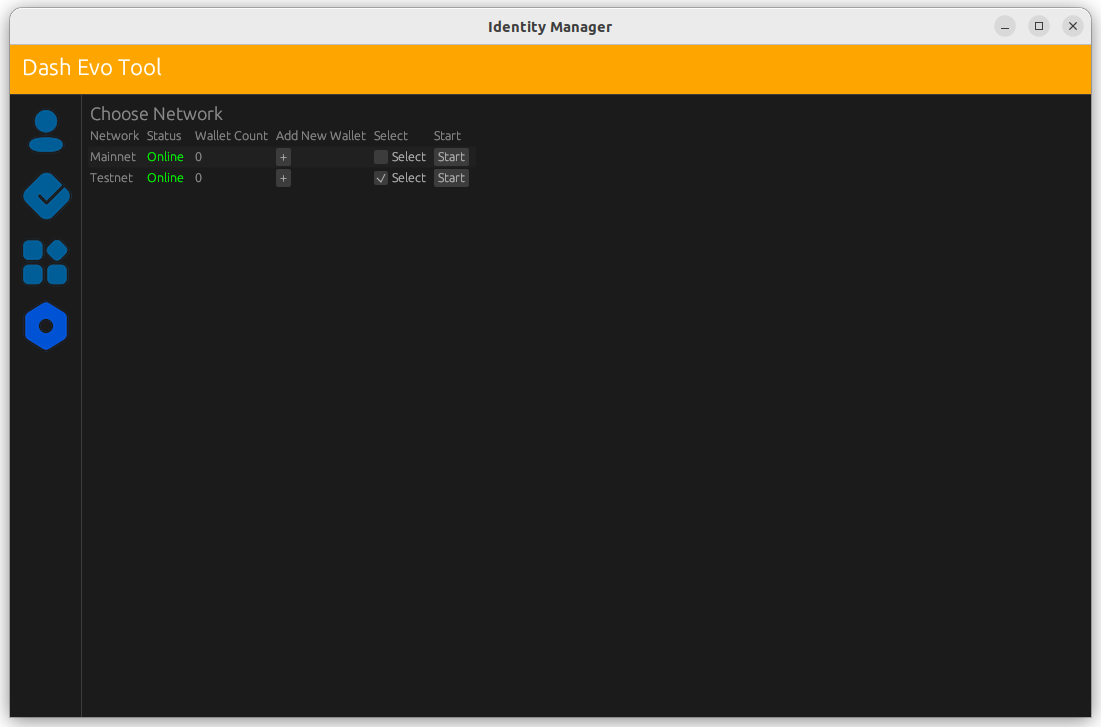
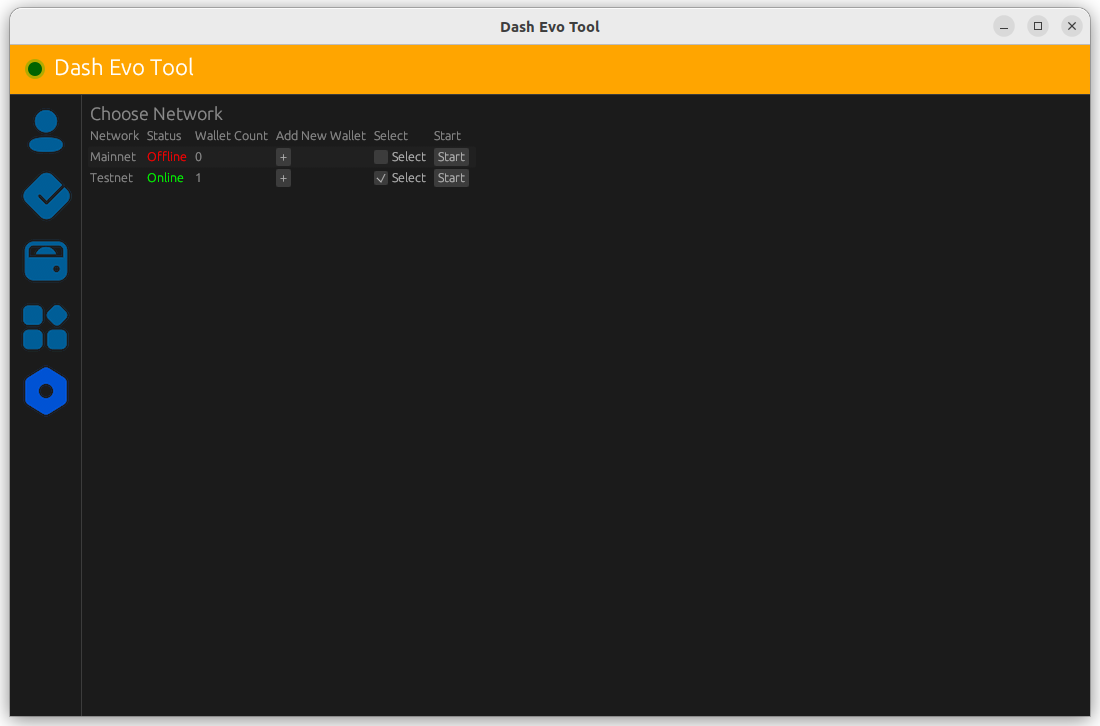
docs: evo tool updates 0.2.1, part 1 (#421)
* docs: update evo tool links to 0.2.1

* docs: small fix

* docs: add zmq config info

* docs: update running the app section

App name is the same on all platforms now

* docs: add info about updating .env

* docs: add start of evo tool wallet section

* docs: add more wallet info

* docs: add basic identity create info

* docs: updates regarding zmq and manual startup

* docs: update config file path for mac and windows

* docs: add updated image

* docs: add more labels

* docs: update image

* docs: rename headings

diff --git a/docs/user/network/dash-evo-tool/index.rst b/docs/user/network/dash-evo-tool/index.rst
@@ -19,17 +19,17 @@ Installation
 
 .. note::
 
-  The Dash Evo Tool requires a Dash Core full node configured to allow RPC access.
+  The Dash Evo Tool requires a Dash Core full node configured to allow RPC and ZMQ access.
 
 Linux, MacOS, or Windows packages are available on the `GitHub releases page
 <https://github.com/dashpay/dash-evo-tool/releases/latest>`__. Download the zip file for your
 Operating System, then unzip the downloaded file:
 
-* `Windows <https://github.com/dashpay/dash-evo-tool/releases/download/v0.1.2/DashEvoTool-windows-x86_64.zip>`_
-* `Mac (ARM m1-m4) <https://github.com/dashpay/dash-evo-tool/releases/download/v0.1.1/DashEvoTool-aarch64-mac.zip>`_
-* `Mac (x86) <https://github.com/dashpay/dash-evo-tool/releases/download/v0.1.1/DashEvoTool-x86_64-mac.zip>`_
-* `Linux (x86) <https://github.com/dashpay/dash-evo-tool/releases/download/v0.1.3/DashEvoTool-linux-x86_64.zip>`_
-* `Linux (ARM) <https://github.com/dashpay/dash-evo-tool/releases/download/v0.1.3/DashEvoTool-linux-aarch64.zip>`_ 
+* `Windows <https://github.com/dashpay/dash-evo-tool/releases/download/v0.2.1/dash-evo-tool-windows.zip>`_
+* `Mac (ARM m1-m4) <https://github.com/dashpay/dash-evo-tool/releases/download/v0.1.4-dev.8/dash-evo-tool-arm64-mac.zip>`_
+* `Mac (x86) <https://github.com/dashpay/dash-evo-tool/releases/download/v0.1.4-dev.8/dash-evo-tool-amd64-mac.zip>`_
+* `Linux (x86) <https://github.com/dashpay/dash-evo-tool/releases/download/v0.2.1/dash-evo-tool-amd64-linux.zip>`_
+* `Linux (ARM) <https://github.com/dashpay/dash-evo-tool/releases/download/v0.1.4-dev.8/dash-evo-tool-arm64-linux.zip>`_ 
 
 .. _evo-tool-configure:
 
@@ -43,9 +43,29 @@ Configuration
 
    * Update ``*_CORE_RPC_USER`` to match the ``rpcuser`` value from your Dash Core dash.conf file.
    * Update ``*_CORE_RPC_PASSWORD`` to match the ``rpcpassword`` value from your Dash Core dash.conf
-     file configured in your Dash Core ``dash.conf`` file.
+     file.
    * If your dash.conf includes ``rpcallowip``, update ``*_CORE_HOST`` with that IP address.
    * If your dash.conf includes ``rpcport``, update ``*_CORE_RPC_PORT`` with that port.
+3. (*Optional*) If you are going to run Dash Core manually instead of launching it via the Dash Evo
+   Tool, you must enable ZMQ by adding the following lines to your dash.conf file:
+
+   .. tab-set::
+      .. tab-item:: Mainnet ZMQ setup
+
+         .. code-block:: ini
+
+            # Dash Evo Tool ZMQ config - mainnet
+            zmqpubhashchainlock=tcp://0.0.0.0:23708
+            zmqpubrawtxlocksig=tcp://0.0.0.0:23708
+
+      .. tab-item:: Testnet ZMQ setup
+   
+         .. code-block:: ini
+      
+            # Place under the [test] section
+            # Dash Evo Tool ZMQ config - testnet
+            zmqpubhashchainlock=tcp://0.0.0.0:23709
+            zmqpubrawtxlocksig=tcp://0.0.0.0:23709
 
 .. tip::
 
@@ -58,18 +78,33 @@ Configuration
     rpcuser=<some_user_name>
     rpcpassword=<some_password>
 
+Updating the env file
+---------------------
+
+When the application runs for the first time, it creates a application directory and copies the
+``.env`` file into it. It also stores application data in the directory. Any further updates to the
+``.env`` file must be made to the copy in the application directory.
+
+==================  =======================================================
+Operating System    Configuration File Path
+==================  =======================================================
+macOS               ~/Library/Application Support/Dash-Evo-Tool/
+Windows             C:\\Users\\<User>\\AppData\\Roaming\\Dash-Evo-Tool\\config
+Linux               /home/<user>/.config/dash-evo-tool/
+==================  =======================================================
+
 .. _evo-tool-run:
 
 Running the application
 =======================
 
 Once the ``.env`` file is configured, launch the Dash Evo Tool by double-clicking the file named
-``dash-evo-tool-<your platform>`` (e.g., ``dash-evo-tool-aarch64-mac``).
+``dash-evo-tool``.
 
-Alternatively, you can launch the application directly from your terminal. For example, on an x86
-Linux, run::
+Alternatively, you can launch the application directly from your terminal. For example, on Linux,
+run::
 
-  ./dash-evo-tool-x86_64-linux
+  ./dash-evo-tool
 
 .. _evo-tool-select-network:
 
@@ -80,10 +115,13 @@ The Dash Evo Tool supports both testnet and mainnet. To choose a network, naviga
 Selection screen and click the checkbox in the Select column for the desired network. Then click the
 **Start** button on that row to launch Dash Core.
 
+.. _evo-tool-manual-core-launch:
+
 .. note::
 
   You can also launch Dash Core manually without using the Dash Evo Tool. This may be necessary if
-  Dash Core is installed in a non-standard location.
+  Dash Core is installed in a non-standard location. When launching Dash Core manually, you must
+  enable ZMQ as described in :hoverxref:`Configuration Step 3 <evo-tool-configure>`.
 
 .. figure:: img/network-selection.png
    :align: center
@@ -98,8 +136,8 @@ Identity operations
 
 .. _evo-tool-identity-load:
 
-Load an identity
-----------------
+Load existing identity
+----------------------
 
 On the main identity screen, click the **Load Identity** button on the upper right side of the
 screen.
@@ -155,6 +193,54 @@ can also initiate :ref:`withdrawals <evo-tool-identity-evo-withdraw>`.
 
    Identity screen with an evonode identity loaded
 
+.. _evo-tool-identity-create:
+
+Create new identity
+-------------------
+
+On the main identity screen, click the **Create Identity** button on the upper right side of the
+screen.
+
+.. figure:: img/identity/main-empty.png
+   :align: center
+   :width: 90%
+
+   Identity screen with no loaded identities
+
+On the create identity screen, leave the first two options set to the default and select the funding
+method. Then, send the requested amount of DASH to the provided address.
+
+.. figure:: img/identity/create-await-funds.png
+   :align: center
+   :width: 90%
+
+   Waiting for funds
+
+The status will change from "Waiting for funds" to "Waiting for Platform acknowledgement" once the
+funds have been received and the identity registration process has started.
+
+.. figure:: img/identity/create-await-platform.png
+   :align: center
+   :width: 90%
+
+   Waiting for Platform acknowledgement
+
+Once the identity has been registered, you can choose to return to the identity screen or proceed to
+registering a name.
+
+.. figure:: img/identity/create-success.png
+   :align: center
+   :width: 90%
+
+   Identity creation success
+
+
+.. figure:: img/identity/main-new-identity.png
+   :align: center
+   :width: 90%
+
+   Identity screen with an identity loaded
+
 .. _evo-tool-identity-evo-withdraw:
 
 Evonode withdrawals
@@ -204,6 +290,8 @@ correct. Click **Confirm** to request the withdrawal.
 
    Withdrawal confirmation screen
 
+.. _evo-tool-name-voting:
+
 Name voting
 ===========
 
@@ -238,3 +326,80 @@ identities simultaneously.
 See the `DPNS page
 <https://docs.dash.org/projects/platform/en/stable/docs/explanations/dpns.html#voting-details>`_ for
 more voting details.
+
+.. _evo-tool-wallet:
+
+Wallet
+======
+
+.. _evo-tool-wallet-create:
+
+Create wallet
+-------------
+
+Version 0.2.1 added an initial wallet feature to support identity registration. Wallets can be added
+from the wallet screen.
+
+.. attention::
+
+   The Dash Evo Tool adds watching-only addresses to the Dash Core wallet when creating identities.
+   For this reason it is recommended to close all existing Dash Core wallets and create a new, empty
+   wallet for the Dash Evo Tool.
+   
+   The Dash Evo Tool wallet features only work if the Dash Core node has a single wallet open.
+
+Click **Add Wallet** to create a new wallet.
+
+.. figure:: img/wallet/wallet-main.png
+   :align: center
+   :width: 90%
+
+   Wallet screen
+
+After creating extra randomness with the mouse, select your preferred language and click
+**Generate** to display you passphrase. Write it down and store it securely, then click the checkbox
+in step 3 to confirm.
+
+Next, enter a wallet name and optionally add a password before clicking **Save Wallet** to store the
+wallet.
+
+.. figure:: img/wallet/wallet-create-all-fields.png
+   :align: center
+   :width: 90%
+
+   Wallet create screen
+
+.. _evo-tool-wallet-use:
+
+Use wallet
+----------
+
+Select your wallet using the dropdown box.
+
+.. figure:: img/wallet/wallet-select.png
+   :align: center
+   :width: 90%
+
+   Select wallet
+
+.. _evo-tool-wallet-use-funds:
+
+Funds
+^^^^^
+
+Several tabs display wallet details. The Funds tab shows your receiving addresses. Click **Add
+Receiving Address** if you want to add additional addresses to fund the wallet.
+
+.. figure:: img/wallet/wallet-funds.png
+   :align: center
+   :width: 90%
+
+   Wallet Funds tab
+
+After adding addresses, they will appear in a table with balance and other details.
+
+.. figure:: img/wallet/wallet-funds-with-address.png
+   :align: center
+   :width: 90%
+
+   Wallet with address added
